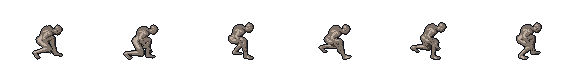
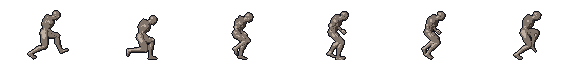
은신을 걷기에 웅크린 자세 40%를 얹은 동작으로 교체
- 렌더 스크립트에 동작 섞기(동작+다른동작*비율) 추가, COMBINE으로 회전을 올바르게 더함
- 깊은 쪼그림(Crouch_Fwd_Loop) 대신 Walk_Loop+Crouch_Idle_Loop*0.4 (사용자 선택 B)
- 시험판 비교와 게임 화면 미리보기, 작업 기준·피드백 문서 기록

diff --git a/tools/blender/render_sprites.py b/tools/blender/render_sprites.py
@@ -186,13 +186,40 @@ def frames_of(action, count, frame_range=None):
     return [round(start + i * step) for i in range(count)]
 
 
-def assign_action(armature, action):
+def assign_action(armature, action, blend=None):
+    """Play one action, or mix a second one over it: blend = (action, weight 0..1).
+
+    Mixing lets a free pack make poses it lacks, e.g. sneak = walk with a little crouch.
+    The second action is stretched to the first one's length so both loops stay in step.
+    """
     data = armature.animation_data or armature.animation_data_create()
+    for track in list(data.nla_tracks):
+        data.nla_tracks.remove(track)
     data.action = action
     # Blender 4.4+ actions have slots; a borrowed action must be pointed at its slot.
     slots = getattr(action, "slots", None)
     if slots and getattr(data, "action_slot", None) is None:
         data.action_slot = slots[0]
+    if blend is None:
+        return
+    over, weight = blend
+    data.action = None
+    base_start, base_end = action.frame_range
+    over_start, over_end = over.frame_range
+    for act, influence in ((action, None), (over, weight)):
+        track = data.nla_tracks.new()
+        strip = track.strips.new(act.name, int(base_start), act)
+        if getattr(act, "slots", None) and hasattr(strip, "action_slot"):
+            strip.action_slot = act.slots[0]
+        strip.blend_type = "REPLACE"
+        if act is over:
+            # COMBINE adds the second pose on top with proper rotation maths (REPLACE mixes
+            # quaternions component by component and can flip a leg backwards).
+            strip.blend_type = "COMBINE"
+            strip.scale = (base_end - base_start) / max(1e-6, over_end - over_start)
+            strip.use_animated_influence = True
+            strip.influence = influence
+            strip.keyframe_insert("influence", frame=int(base_start))
 
 
 def finish_pixels(pixels, bands, outline):
@@ -242,8 +269,8 @@ def snap_to_floor(px):
     return out
 
 
-def render_sheet(scene, armature, action, count, out_dir, tmp_dir, sheet_name, frame_range, args):
-    assign_action(armature, action)
+def render_sheet(scene, armature, action, count, out_dir, tmp_dir, sheet_name, frame_range, args, blend=None):
+    assign_action(armature, action, blend)
     frames = frames_of(action, count, frame_range)
     sheet = bpy.data.images.new(f"sheet_{sheet_name}", CELL_W * len(frames), CELL_H, alpha=True)
     sheet_px = [0.0] * (CELL_W * len(frames) * CELL_H * 4)
@@ -267,14 +294,20 @@ def render_sheet(scene, armature, action, count, out_dir, tmp_dir, sheet_name, f
 
 
 def parse_map_entry(entry):
-    """'pickup=Fixing_Kneeling@0-30' -> ('pickup', 'Fixing_Kneeling', (0, 30))."""
+    """'pickup=Fixing_Kneeling@0-30' -> ('pickup', 'Fixing_Kneeling', (0, 30), None).
+    'sneak=Walk_Loop+Crouch_Fwd_Loop*0.4' -> ('sneak', 'Walk_Loop', None, ('Crouch_Fwd_Loop', 0.4))."""
     sheet_name, action_part = entry.split("=", 1)
     frame_range = None
+    blend = None
+    if "+" in action_part:
+        action_part, over = action_part.split("+", 1)
+        over_name, weight = over.split("*") if "*" in over else (over, "0.5")
+        blend = (over_name, float(weight))
     if "@" in action_part:
         action_part, span = action_part.split("@", 1)
         start, end = span.split("-")
         frame_range = (float(start), float(end))
-    return sheet_name, action_part, frame_range
+    return sheet_name, action_part, frame_range, blend
 
 
 def safe_name(name):
@@ -313,16 +346,22 @@ def main():
         print("saved rest pose only (no armature)")
         return
     entries = [parse_map_entry(e) for e in args.map] if args.map else \
-        [(safe_name(a.name), a.name, None) for a in bpy.data.actions]
-    for sheet_name, action_name, frame_range in entries:
+        [(safe_name(a.name), a.name, None, None) for a in bpy.data.actions]
+    for sheet_name, action_name, frame_range, blend in entries:
         action = bpy.data.actions.get(action_name)
         if action is None:
             print(f"missing action {action_name}")
             continue
+        if blend is not None:
+            over = bpy.data.actions.get(blend[0])
+            if over is None:
+                print(f"missing action {blend[0]}")
+                continue
+            blend = (over, blend[1])
         # Moving the camera left moves the figure right in the cell.
         scene.camera.location.x = -shifts.get(sheet_name, 0.0) * PERSON_HEIGHT_M / PERSON_HEIGHT_PX
         render_sheet(scene, armature, action, int(counts.get(sheet_name, args.frames)),
-                     out_dir, tmp_dir, sheet_name, frame_range, args)
+                     out_dir, tmp_dir, sheet_name, frame_range, args, blend)
 
 
 main()

diff --git a/assets/characters/CHARACTER_WORKFLOW.md b/assets/characters/CHARACTER_WORKFLOW.md
@@ -88,7 +88,7 @@
      --model "assets/source3d/quaternius_base_characters/Base Characters/Godot - UE/Superhero_Male_FullBody.gltf" \
      --anim-file "assets/source3d/quaternius_animation_library/Unreal-Godot/UAL1_Standard.glb" \
      --out assets/characters/base \
-     --map idle=Idle_Loop walk=Walk_Loop sneak=Crouch_Fwd_Loop swing=Sword_Attack hurt=Hit_Chest down=Death01 pickup=Fixing_Kneeling@0-20 \
+     --map idle=Idle_Loop walk=Walk_Loop "sneak=Walk_Loop+Crouch_Idle_Loop*0.4" swing=Sword_Attack hurt=Hit_Chest down=Death01 pickup=Fixing_Kneeling@0-20 \
      --frames-for idle=4 walk=8 sneak=6 swing=6 hurt=3 down=5 pickup=4 \
      --tilt 20 --head 1.15 --bulk 1.1 --legs 1.0 --shift-for down=16 \
      --flat 0.80,0.62,0.50 --bands 4 --outline
@@ -106,7 +106,7 @@
 | --- | --- | --- | --- |
 | idle | `Idle_Loop` | 4 | |
 | walk | `Walk_Loop` | 8 | |
-| sneak | `Crouch_Fwd_Loop` | 6 | 웅크려 걷기 |
+| sneak | `Walk_Loop` 위에 `Crouch_Idle_Loop`를 40% 얹음(`Walk_Loop+Crouch_Idle_Loop*0.4`) | 6 | v4b부터. 무료 팩의 `Crouch_Fwd_Loop`는 쪼그려 앉은 깊은 자세라 "몸을 낮추고 조심스럽게 걷기"로 안 읽힘. 섞을 때는 COMBINE(회전을 곱해 더함)을 써야 함. 단순 평균(REPLACE)은 다리가 뒤로 뒤집힘 |
 | swing | `Sword_Attack` | 6 | 칼 공격을 방망이 휘두르기로 사용 |
 | hurt | `Hit_Chest` | 3 | |
 | down | `Death01` | 5 | 마지막 칸 유지 |
@@ -130,7 +130,7 @@
 
 | 버전 | 미리보기 | 결과 | 다음에 고칠 점 |
 | --- | --- | --- | --- |
-| **기본 몸 v4 (2026-11-10, 현재 기준 캐릭터)** | `previews/base_body_v4.png`, 게임 화면 `previews/base_body_v4_ingame.png` | 카메라를 20° 위에서 내려다보게 하고 비율을 거의 원래대로(머리 1.15·몸 1.1·다리 1.0) 되돌림. 사용자 선택 "B가 제일 낫다". 서 있기·걷기·줍기·쓰러짐은 평범한 사람으로 읽힘 | 점검표 결과: ① 은신이 여전히 깊게 쪼그린 자세(무료 팩에 다른 웅크려 걷기가 없음) ② 휘두르기가 칼 찌르기처럼 팔을 벌려 방망이 공격으로 안 읽힘 ③ 지금 주인공보다 가늘고 조금 큼(옷·장비로 덩치를 만들 예정) |
+| **기본 몸 v4 (2026-11-10, 현재 기준 캐릭터)** | `previews/base_body_v4.png`, 게임 화면 `previews/base_body_v4_ingame.png` | 카메라를 20° 위에서 내려다보게 하고 비율을 거의 원래대로(머리 1.15·몸 1.1·다리 1.0) 되돌림. 사용자 선택 "B가 제일 낫다". 서 있기·걷기·줍기·쓰러짐은 평범한 사람으로 읽힘 | 점검표 결과: ① 은신이 깊게 쪼그린 자세 → v4b에서 해결 ② 휘두르기가 칼 찌르기처럼 팔을 벌려 방망이 공격으로 안 읽힘 ③ 지금 주인공보다 가늘고 조금 큼(옷·장비로 덩치를 만들 예정) |
 | 기본 몸 v3 (2026-11-10) | `previews/base_body_v3.png` | 다리를 0.8배로 줄여 키가 지금 주인공과 비슷해짐. 쓰러진 자세까지 모든 칸이 바닥선에 닿고 칸 밖으로 잘리지 않음 | ① 휘두르기는 칼 동작이라 팔을 크게 벌림(무기를 쥐여 보고 판단) ② 웅크려 걷기에서 손이 몸 앞으로 늘어짐 |
 | 기본 몸 v2 (2026-11-10) | `previews/base_body_v2.png` | 머리가 커지고 몸이 굵어져 덜 왜소함. 외곽선이 또렷하고, 옆 조명으로 밝은 면·어두운 면이 구분됨. 줍기가 무릎 꿇고 바닥에 손을 뻗는 동작으로 바뀜 | ① 아직 지금 주인공보다 키가 크고 다리가 김(옷을 입힌 뒤 다시 판단) ② 쓰러짐 3~5칸에서 머리가 칸 왼쪽 밖으로 잘림 → 쓰러짐만 칸 안으로 당기는 처리 필요 ③ 휘두르기가 칼 동작이라 팔을 크게 벌림 → 방망이를 쥐여 보고 판단 |
 | 기본 몸 v1 (2026-11-10) | `previews/base_body_v1.png` | 동작 7종이 옆모습·같은 발 위치로 나옴. 걷기·공격·쓰러짐 동작이 자연스러움 | ① 체형이 길고 가늘어(Superhero 비율) 지금 주인공보다 왜소해 보임 → 머리·몸통을 키워 2~3등신 쪽으로 ② 외곽선이 약함 ③ 피부 질감이 작은 크기에서 얼룩처럼 보임 → 단색 위주로 ④ 줍기가 바닥 줍기가 아님 |
@@ -150,3 +150,4 @@
 | 2026-11-10 | v3 비율 점검(`previews/base_body_v3_zoom.png`): 머리 1.7배로 뒤통수가 길쭉해지고 팔다리가 가늘어 좀비처럼 보임. 사용자 지시 "일단 지금 한 거 적용해 보고" | v3를 게임 주인공에 연결(`src/character_look.py`의 `SheetLook`, `main.py`의 `PLAYER_LOOK = "base"`). 게임 화면 `previews/base_body_v3_ingame.png`. 사용자 의견을 받아 v4에서 비율을 고칠 예정 |
 | 2026-11-10 | 사용자 지적 "아래에서 쳐다보는 느낌", "은신 자세도 이상함". 렌더 스크립트에 `--tilt`(카메라를 위에서 내려다보는 각도) 추가, 시험판 A(카메라만)·B(카메라+비율 되돌림 머리 1.15·몸 1.1·다리 1.0) 렌더 | 비교 `previews/base_body_v4_trial.png`. B가 가장 나음. 원인 분석과 점검표는 [ART_FEEDBACK.md](ART_FEEDBACK.md) |
 | 2026-11-10 | 사용자 선택 "B가 제일 낫다" | 동작 7종을 B 설정으로 다시 렌더해 `base/`를 v4로 교체, 게임에 바로 반영. 점검표로 남은 문제(은신·휘두르기)를 결과 이력에 적음 |
+| 2026-11-11 | 사용자 지시 "은신 먼저". 렌더 스크립트에 동작 섞기(`동작+다른동작*비율`) 추가. 첫 시도(REPLACE)는 다리가 뒤로 뒤집혀 실패, COMBINE으로 바꿔 해결. 시험판 비교 `previews/sneak_trial.png` | 사용자 선택 "B (40%)". `base/sneak.png` 교체(v4b), 게임 화면 `previews/sneak_v4b_ingame.png`. 남은 점: 걸음 중간 칸에서 고개가 조금 숙여짐, 팔이 늘어짐(방망이를 쥐이면 다시 판단) |

diff --git a/assets/characters/ART_FEEDBACK.md b/assets/characters/ART_FEEDBACK.md
@@ -13,7 +13,7 @@ Claude가 만든 그림(캐릭터, 배경, UI 등)을 사용자가 보고 이상
 | 2026-11-10 | 기본 몸 v3: 머리 1.7배, 몸 1.3배, 다리 0.8배 | "저렇게 다듬으면 이상하게 보이는 거 아님?" | 실사 비율 3D 모델의 뼈 크기만 키워서 2~3등신을 만들려 함. 귀여운 큰 머리가 아니라 뒤통수가 늘어난 두상, 가는 팔다리, 좀비 같은 체형이 됨 | v4(사용자 선택 B): 머리 1.15, 몸 1.1, 다리 1.0으로 되돌림 | 비율은 조금만 바꾼다. 덩치·특색은 옷과 색으로 만든다(→ 3-3) |
 | 2026-11-10 | v1에서 "왜소함"을 문제로 잡고 비율을 고침 | "처음에 기본에서 뭐가 문제여서 수정하려는 건데" | 지금 주인공이 땅딸막해 보이는 이유(후드·방독면·배낭)를 몸 비율 탓으로 잘못 진단 | 비율 대신 옷으로 덩치를 만들기로 함 | 고치기 전에 '왜 달라 보이는지' 원인을 먼저 확인한다(→ 3-1) |
 | 2026-11-10 | v3를 게임에 넣음(카메라 눈높이 정면) | "뭔가 아래에서 쳐다보는 느낌" | ① 게임 거리는 위에서 내려다보는 시점인데 캐릭터는 수평으로 찍음 ② 원본 서 있기 동작이 가슴을 내밀고 고개를 든 히어로 자세 ③ 큰 머리가 이를 키움 | 렌더 카메라를 20° 위에서 내려다보게(`--tilt 20`), 비율 되돌림 | 카메라 각도를 게임 배경 시점에 맞춘다. 원본 동작의 자세(고개·가슴)를 확인한다(→ 3-2, 3-4) |
-| 2026-11-10 | 은신 = `Crouch_Fwd_Loop` | "은신 자세도 존나 이상함" | 무료 팩의 웅크려 걷기가 거의 쪼그려 앉은 깊은 자세. 큰 머리·굵은 몸까지 더해져 괴물처럼 보임 | 비율 되돌림으로 일부 완화. 남은 문제는 동작 자체 | 동작 이름만 보고 고르지 않는다. 게임에서 그 동작이 '무엇으로 읽혀야 하는지'와 비교한다(→ 3-4) |
+| 2026-11-10 | 은신 = `Crouch_Fwd_Loop` | "은신 자세도 존나 이상함" | 무료 팩의 웅크려 걷기가 거의 쪼그려 앉은 깊은 자세. 큰 머리·굵은 몸까지 더해져 괴물처럼 보임 | v4b: 걷기 위에 웅크려 서기를 40% 얹어(COMBINE) 몸만 낮춘 걷기를 만듦. 사용자 선택 | 동작 이름만 보고 고르지 않는다. 게임에서 그 동작이 '무엇으로 읽혀야 하는지'와 비교한다(→ 3-4) |
 | 2026-11-10 | 위 결과들을 그대로 보여 줌 | "너 미적 감각이 떨어지니?" | 결과를 내 기준(칸 안에 들어감, 바닥에 닿음 등 기술 기준)으로만 점검하고, 보기에 어떤지는 점검하지 않음 | 이 문서와 점검표를 만들고, 보여 주기 전에 반드시 통과시키기로 함 | 기술 점검과 별개로 '보기 점검'을 한다(→ 3절 전체) |
 
 ## 2. 왜 문제가 생겼고, 왜 Claude가 몰랐나 (2026-11-10 분석)
